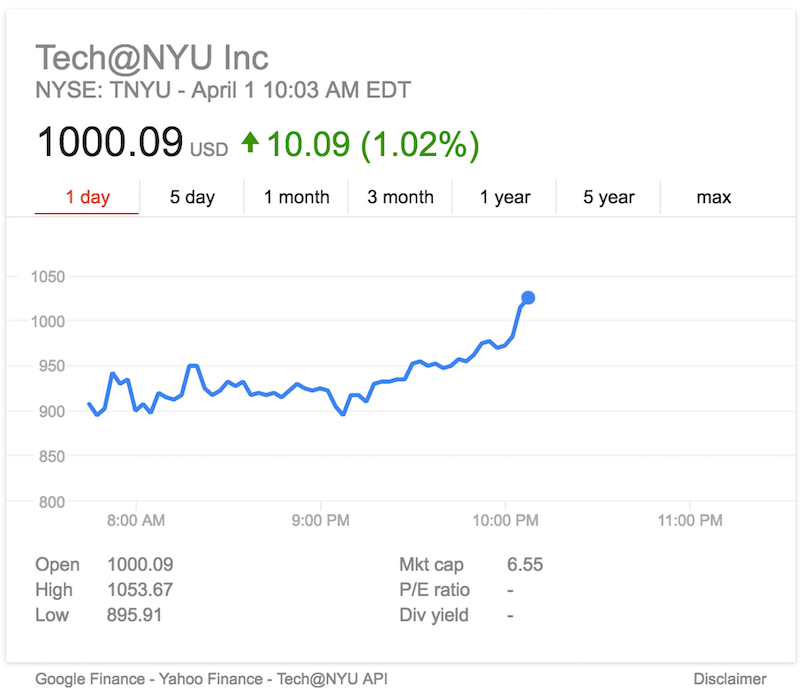
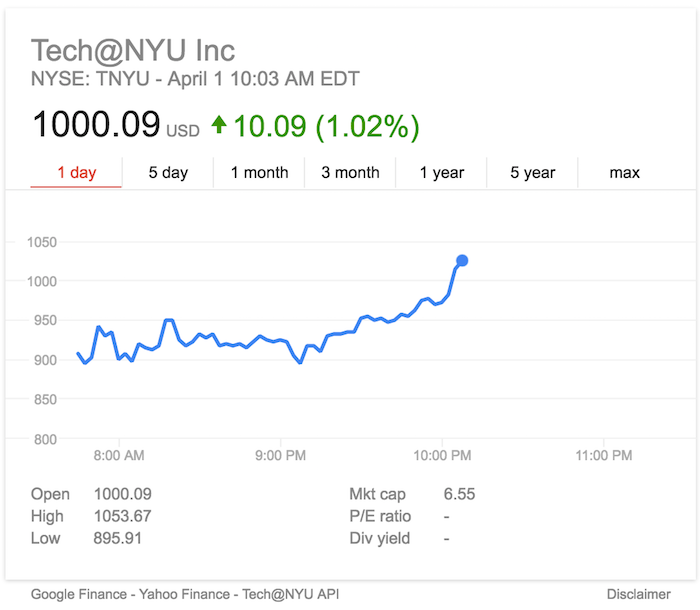
Switching position of image

diff --git a/_site/index.html b/_site/index.html
@@ -40,25 +40,23 @@
     <img src="/lib/logos/techatnyu.png" alt="tech@nyu" class="logo" />
 </section>
 
-
-
 <section class="involved section__righttype events__schedule" style="z-index:4;">
 	
 
 	
 	<p>On April 1st, 2016, Tech@NYU is pleased to announce, that after just 12 whole hours of receiving our seed round of funding from VC firms Cash Money Trillionaires, Kyle Hughes Ventures,  Swabsta Securities, and PanAgar Funds, we are going public. This morning, our team went to the NYSE to ring the bell and make our IPO official. You can buy some Tech@NYU stock using the ticker $TNYU, at $1000/share.</p>
 
+<p><img src="/lib/img/stock-ticker.png" alt="Stock ticker"></p>
+
 <p>Thank you for all of your support. <a href="https://venmo.com/?txn=pay&amp;recipients=techatnyu&amp;amount=10&amp;note=for%20going%20public!!!!&amp;audience=public">Buy stock in Tech@NYU now</a>!</p>
+
+<p>-- Terri Burns, CEO.</p>
 
 
 </section>
 
 
 <br>
-
-<img src="/lib/img/stock-ticker.png" width="auto" alt="">
-
-<br><br>
 
 <div class="owl-carousel owl-theme">
     <div class="item"><h4>“I am so excited that Tech@NYU has finally IPO’ed. As CEO, I’m officially a legend. This is just one of many steps that I am taking towards world domination. Thank you for all of the support!” - Terri Burns, CEO</h4></div>
@@ -67,6 +65,9 @@
     <div class="item"><h4>“Let us not take this planet for granted. I do not take today for granted.” - Freia Lobo, COO</h4></div>
     <div class="item"><h4>“As our marketing lead likes to say, we, ahem Startup from the bottom, now we’re here. Unlike most student groups our sheer determination, hard work and ability is the reason we got this far. A lot of people think we just do events. We don’t, we bring the ruckus whether on-campus or on Wall Street” - Jordan, Marketing Lead</h4></div>
 </div>
+
+<br>
+
          
     
     </div> 

diff --git a/_layouts/main.html b/_layouts/main.html
@@ -11,15 +11,9 @@ title: Press Release
     <img src="/lib/logos/techatnyu.png" alt="tech@nyu" class="logo" />
 </section>
 
-
-
 {{ content }}
 
 <br>
-
-<img src="/lib/img/stock-ticker.png" width="auto" alt="">
-
-<br><br>
 
 <div class="owl-carousel owl-theme">
     <div class="item"><h4>“I am so excited that Tech@NYU has finally IPO’ed. As CEO, I’m officially a legend. This is just one of many steps that I am taking towards world domination. Thank you for all of the support!” - Terri Burns, CEO</h4></div>
@@ -28,3 +22,5 @@ title: Press Release
     <div class="item"><h4>“Let us not take this planet for granted. I do not take today for granted.” - Freia Lobo, COO</h4></div>
     <div class="item"><h4>“As our marketing lead likes to say, we, ahem Startup from the bottom, now we’re here. Unlike most student groups our sheer determination, hard work and ability is the reason we got this far. A lot of people think we just do events. We don’t, we bring the ruckus whether on-campus or on Wall Street” - Jordan, Marketing Lead</h4></div>
 </div>
+
+<br>

diff --git a/_includes/intro.md b/_includes/intro.md
@@ -1,3 +1,7 @@
 On April 1st, 2016, Tech@NYU is pleased to announce, that after just 12 whole hours of receiving our seed round of funding from VC firms Cash Money Trillionaires, Kyle Hughes Ventures,  Swabsta Securities, and PanAgar Funds, we are going public. This morning, our team went to the NYSE to ring the bell and make our IPO official. You can buy some Tech@NYU stock using the ticker $TNYU, at $1000/share.
 
+![Stock ticker](/lib/img/stock-ticker.png)
+
 Thank you for all of your support. [Buy stock in Tech@NYU now](https://venmo.com/?txn=pay&recipients=techatnyu&amount=10&note=for%20going%20public!!!!&audience=public)!
+
+-- Terri Burns, CEO.
